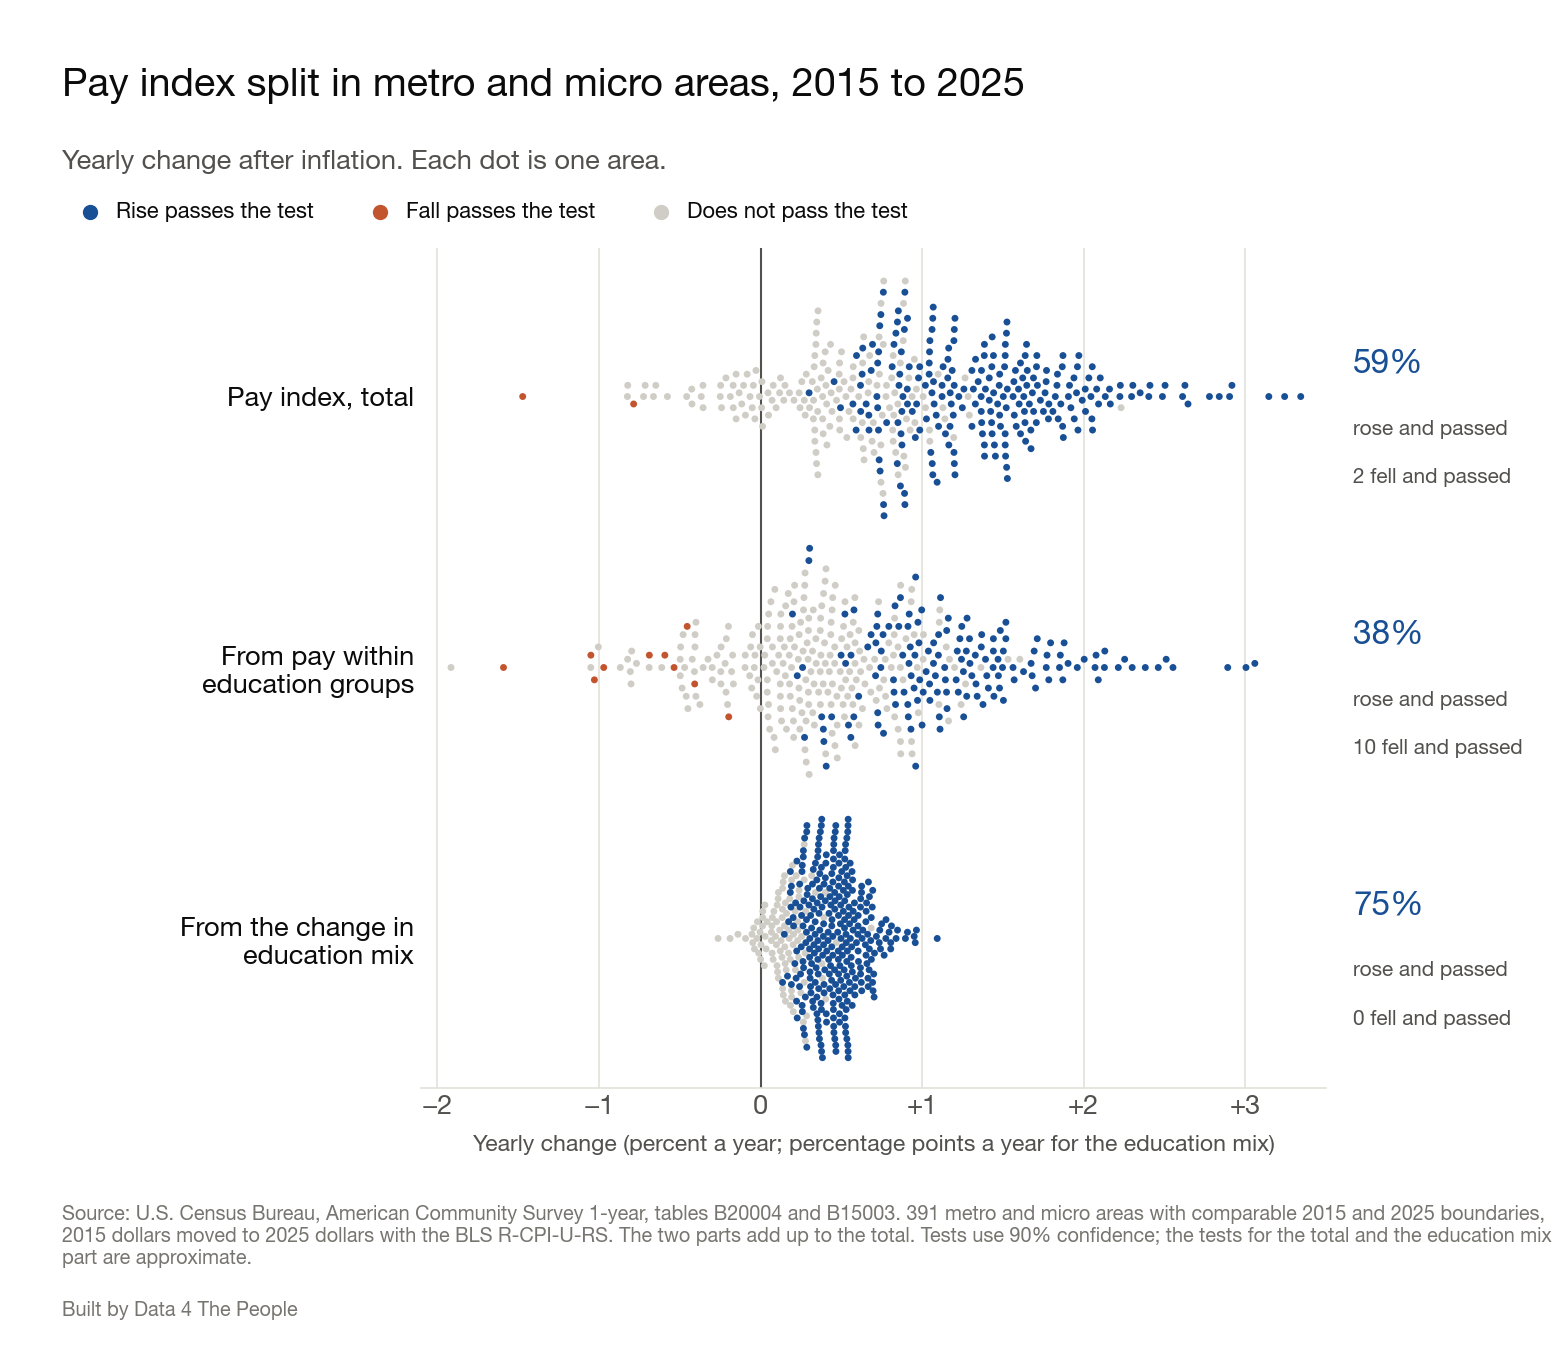
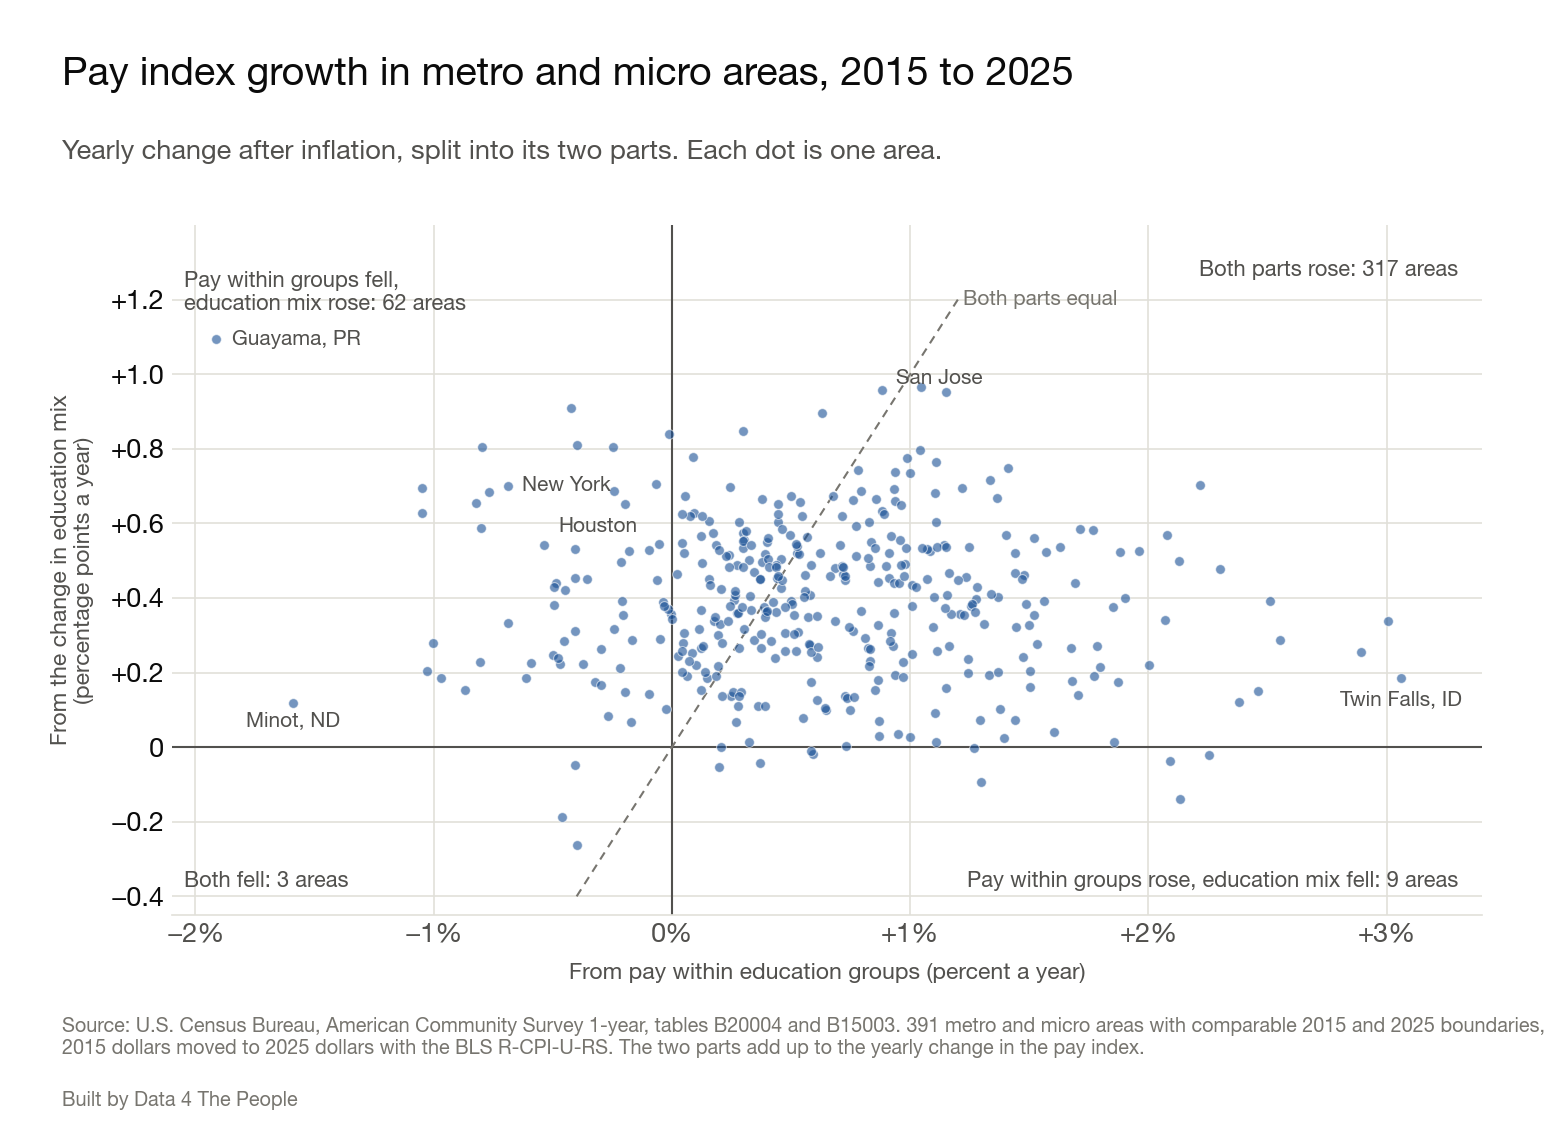
educational-attainment: metro pay index split as a scatter of pay part vs mix part; coffee chart intro sentence

diff --git a/scripts/post_charts.py b/scripts/post_charts.py
@@ -239,49 +239,47 @@ def coffee_chart():
 def pay_metro_chart(first, last):
     d = pd.read_csv(ROOT / "data" / "clean" / "pay_change.csv")
     d = d[d.level == "cbsa"]
-    rows = [("own_cagr", "own_sig", "Pay index, total", "% a year", True),
-            ("held_cagr", "held_sig", "From pay within\neducation groups", "% a year", False),
-            ("mix_part", "mix_sig", "From the change in\neducation mix", "points a year", True)]
+    x, y = d.held_cagr.to_numpy(), d.mix_part.to_numpy()
+    quad = {"both rose": int(((x > 0) & (y > 0)).sum()), "pay fell, mix rose": int(((x < 0) & (y > 0)).sum()),
+            "pay rose, mix fell": int(((x > 0) & (y < 0)).sum()), "both fell": int(((x < 0) & (y < 0)).sum())}
     OUT.extend(["", f"## Metro and micro areas, pay index split, yearly change {first} to {last}", "",
-                f"{len(d)} comparable areas, from data/clean/pay_change.csv.", "",
-                "| measure | median | above 0 | rise passes | fall passes | approximate test |", "|---|---|---|---|---|---|"])
-    h = 9.0
-    fig, ax = frame(f"Pay index split in metro and micro areas, {first} to {last}",
-                    "Yearly change after inflation. Each dot is one area.", h)
-    ax.set_position([0.27, 1.75 / h, 0.58, 1 - 3.4 / h])
-    for j, (col, sig, label, unit, approx) in enumerate(rows):
-        x, ok = d[col].to_numpy(), d[sig].to_numpy(bool)
-        up, down = ok & (x > 0), ok & (x < 0)
-        OUT.append(f"| {label.replace(chr(10), ' ')} ({unit}) | {np.median(x):+.2f} | {int((x > 0).sum())} | {int(up.sum())} | "
-                   f"{int(down.sum())} | {'yes' if approx else 'no'} |")
-        y0 = len(rows) - 1 - j
-        off = swarm(x, 0.028)
-        ys = y0 + off * min(1, 0.44 / np.abs(off).max())
-        for m, c, z in ((~ok, NOPASS, 2), (up, C2025, 3), (down, FALL, 3)):
-            ax.scatter(x[m], ys[m], s=11, color=c, edgecolor="none", zorder=z)
-        t = ax.get_yaxis_transform()
-        ax.text(1.03, y0 + 0.12, f"{100 * up.sum() / len(x):.0f}%", ha="left", va="center", fontsize=16, fontweight="bold",
-                color=C2025, transform=t)
-        ax.text(1.03, y0 - 0.12, "rose and passed", ha="left", va="center", fontsize=10, color=INK2, transform=t)
-        ax.text(1.03, y0 - 0.3, f"{int(down.sum())} fell and passed", ha="left", va="center", fontsize=10, color=INK2,
-                transform=t)
+                f"{len(d)} comparable areas, from data/clean/pay_change.csv. x = from pay within education groups (% a year), "
+                f"y = from the change in education mix (points a year).", "",
+                "| quadrant | areas |", "|---|---|"])
+    OUT.extend(f"| {k} | {v} |" for k, v in quad.items())
+    OUT.append(f"| mix part larger than pay part | {int((y > x).sum())} |")
+
+    h = 7.6
+    fig, ax = frame(f"Pay index growth in metro and micro areas, {first} to {last}",
+                    "Yearly change after inflation, split into its two parts. Each dot is one area.", h)
+    ax.set_position([0.11, 1.5 / h, 0.84, 1 - 3.0 / h])
+    ax.axhline(0, color=INK2, lw=1, zorder=1)
     ax.axvline(0, color=INK2, lw=1, zorder=1)
-    ax.set_yticks(range(len(rows)))
-    ax.set_yticklabels([lab for _, _, lab, _, _ in reversed(rows)])
-    ax.set_xlim(-2.1, 3.5)
-    ax.set_ylim(-0.55, len(rows) - 0.45)
-    ax.grid(axis="y", visible=False)
-    ax.xaxis.set_major_formatter(matplotlib.ticker.FuncFormatter(lambda v, _: f"{v:+.0f}".replace("-", "\u2212") if v else "0"))
-    ax.set_xlabel("Yearly change (percent a year; percentage points a year for the education mix)", fontsize=11,
-                  color=INK2, labelpad=8)
-    for c, lab in ((C2025, "Rise passes the test"), (FALL, "Fall passes the test"), (NOPASS, "Does not pass the test")):
-        ax.scatter([], [], s=40, color=c, label=lab)
-    ax.legend(loc="lower left", bbox_to_anchor=(-0.4, 1.02), ncol=3, frameon=False, fontsize=10.5, handletextpad=0.2,
-              borderaxespad=0)
+    ax.plot([-0.4, 1.2], [-0.4, 1.2], color=MUTED, lw=1, ls=(0, (4, 3)), zorder=1)
+    ax.text(1.22, 1.2, "Both parts equal", ha="left", va="center", fontsize=10, color=MUTED)
+    ax.scatter(x, y, s=22, color=C2025, alpha=0.6, edgecolor="white", linewidth=0.5, zorder=2)
+    ax.grid(axis="y", color=GRID, lw=0.8)
+    for txt, (qx, qy, ha) in {f"Both parts rose: {quad['both rose']} areas": (3.3, 1.28, "right"),
+                              f"Pay within groups fell,\neducation mix rose: {quad['pay fell, mix rose']} areas": (-2.05, 1.22, "left"),
+                              f"Pay within groups rose, education mix fell: {quad['pay rose, mix fell']} areas": (3.3, -0.36, "right"),
+                              f"Both fell: {quad['both fell']} areas": (-2.05, -0.36, "left")}.items():
+        ax.text(qx, qy, txt, ha=ha, va="center", fontsize=10.5, color=INK2)
+    for name, short, dx, dy, ha in (("Houston", "Houston", 0.06, 0.05, "left"), ("New York-Newark", "New York", -0.06, 0.05, "right"),
+                                    ("San Jose", "San Jose", 0.06, 0.03, "left"), ("Twin Falls", "Twin Falls, ID", 0, -0.06, "center"),
+                                    ("Guayama", "Guayama, PR", 0.07, 0, "left"), ("Minot", "Minot, ND", 0, -0.05, "center")):
+        r = d[d.name.str.startswith(name)].iloc[0]
+        ax.text(r.held_cagr + dx, r.mix_part + dy, short, ha=ha, va="center", fontsize=10, color=INK2)
+    ax.set_xlim(-2.1, 3.4)
+    ax.set_ylim(-0.45, 1.4)
+    ax.set_yticks(np.arange(-0.4, 1.3, 0.2))
+    ax.set_xlabel("From pay within education groups (percent a year)", fontsize=11, color=INK2, labelpad=8)
+    ax.set_ylabel("From the change in education mix\n(percentage points a year)", fontsize=11, color=INK2, labelpad=8)
+    ax.xaxis.set_major_formatter(matplotlib.ticker.FuncFormatter(lambda v, _: f"{v:+.0f}%".replace("-", "\u2212") if v else "0%"))
+    ax.yaxis.set_major_formatter(matplotlib.ticker.FuncFormatter(lambda v, _: f"{v:+.1f}".replace("-", "\u2212") if v else "0"))
+    ax.spines["left"].set_visible(False)
     footer(fig, f"Source: U.S. Census Bureau, American Community Survey 1-year, tables B20004 and B15003. {len(d)} metro and "
            f"micro areas with comparable {first} and {last} boundaries, {first} dollars moved to {last} dollars with the "
-           f"BLS R-CPI-U-RS. The two parts add up to the total. Tests use 90% confidence; the tests for the total and the "
-           f"education mix part are approximate.", h)
+           f"BLS R-CPI-U-RS. The two parts add up to the yearly change in the pay index.", h)
     fig.savefig(IMG / "04-pay-mix-metros.png", facecolor="white")
     plt.close(fig)
 

diff --git a/posts/educational-attainment/POST.md b/posts/educational-attainment/POST.md
@@ -50,7 +50,7 @@ What’s the revenue impact from volume? That’s easy. It’s zero since in bot
 
 Now what about price? To calculate that, you must apply only the change in pricing to the base year’s volume. Both coffee and TWMPSML took a $0.50 price increase. Applying that to last year’s volume tells us that pricing alone explains just $5,500 of the revenue increase.
 
-So, what explains the remaining $20,000 increase? MIX. The shop sold far more of the expensive items and fewer of the cheaper items.
+So, what explains the remaining $20,000 increase? MIX. The shop sold far more of the expensive items and fewer of the cheaper items. The chart below shows all three pieces.
 
 ![Bridge chart of a coffee shop's revenue. Last year's revenue of $82,000 rises by $0 from volume, $5,500 from price and $20,000 from mix to reach this year's revenue of $107,500.](images/02-coffee-bridge.png)
 *Made-up numbers for the coffee shop example.*
@@ -72,7 +72,7 @@ The pay index in the map splits the change in pay into two parts. It weights eac
 
 The next chart shows the same split for each of the 391 metro and micro areas.
 
-![Dot chart of 391 metro and micro areas showing the yearly change in the pay index from 2015 to 2025 and its two parts. The total rose and passed the test in 59% of areas and fell and passed in 2. The part from pay within education groups is spread widely around zero; it rose and passed in 38% and fell and passed in 10. The part from the change in education mix sits in a narrow band above zero; it rose and passed in 75% and fell and passed in none.](images/04-pay-mix-metros.png)
-*Each dot is one metro or micro area with comparable 2015 and 2025 boundaries. The two parts add up to the total. The tests for the total and the education mix part are approximate.*
+![Scatter plot of 391 metro and micro areas. The horizontal axis is pay index growth from pay within education groups, in percent a year, from about -2% to +3%. The vertical axis is growth from the change in education mix, in points a year, from about -0.3 to +1.1. Both parts rose in 317 areas. Pay within groups fell while the education mix part rose in 62 areas, including New York and Houston. The education mix part fell in 12 areas.](images/04-pay-mix-metros.png)
+*Each dot is one metro or micro area with comparable 2015 and 2025 boundaries. The two parts add up to the yearly change in the pay index. Dots above the dashed line have a larger education mix part than pay part.*
 
-The part from the change in education mix is above zero in 379 of the 391 areas. It rose by enough to pass an approximate test in 294 areas (75%), and no area had a fall in this part that passed the test. Its median is 0.39 points a year. The part from pay within education groups is more spread out, with a median of 0.55% a year. It rose and passed the test in 149 areas (38%), and fell and passed the test in 10.
+The education mix part is above zero in 379 of the 391 areas, and in 336 of them (86%) it is between 0.1 and 0.7 points a year. The part from pay within education groups is more spread out, from about −2% to +3% a year. In 62 areas, pay within education groups fell while the education mix part rose. That includes New York, where the pay part was −0.20% a year and the mix part was +0.65 points, and Houston, at −0.53% and +0.54 points. In 159 areas, the education mix part was larger than the pay part.

diff --git a/data/clean/post_chart_tables.md b/data/clean/post_chart_tables.md
@@ -33,10 +33,12 @@ Prices up 36.3%. Yearly change is the compound annual growth rate over 10 years.
 
 ## Metro and micro areas, pay index split, yearly change 2015 to 2025
 
-391 comparable areas, from data/clean/pay_change.csv.
+391 comparable areas, from data/clean/pay_change.csv. x = from pay within education groups (% a year), y = from the change in education mix (points a year).
 
-| measure | median | above 0 | rise passes | fall passes | approximate test |
-|---|---|---|---|---|---|
-| Pay index, total (% a year) | +0.93 | 356 | 230 | 2 | yes |
-| From pay within education groups (% a year) | +0.55 | 326 | 149 | 10 | no |
-| From the change in education mix (points a year) | +0.39 | 379 | 294 | 0 | yes |
+| quadrant | areas |
+|---|---|
+| both rose | 317 |
+| pay fell, mix rose | 62 |
+| pay rose, mix fell | 9 |
+| both fell | 3 |
+| mix part larger than pay part | 159 |
